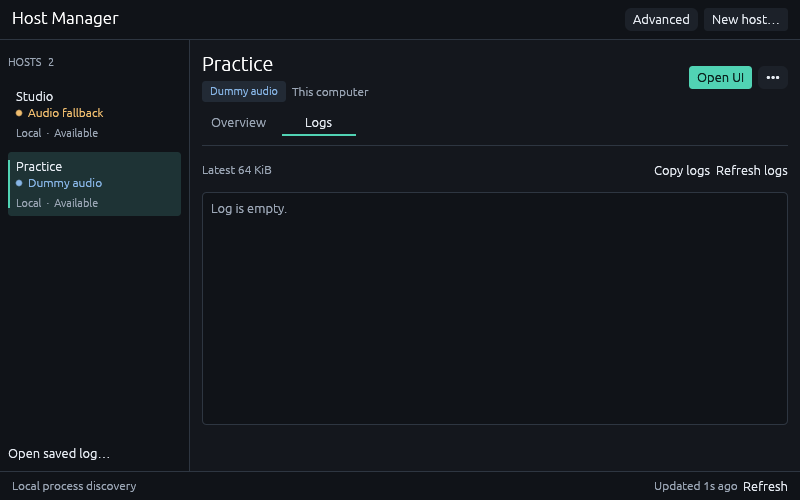
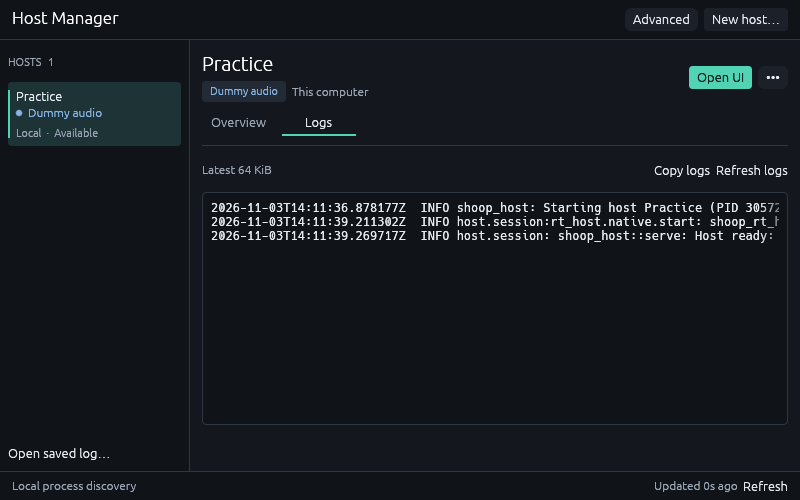
Pass UI host targets through bounded startup pipes

Changed region(s): [[0.0, 0.15, 0.9688, 0.48]]

diff --git a/src/rust/shoopdaloop/src/host_manager.rs b/src/rust/shoopdaloop/src/host_manager.rs
@@ -32,11 +32,9 @@ impl Source {
         }
     }
 }
-fn ui_command(target: &Target) -> Result<Command> {
+fn ui_command() -> Result<Command> {
     let mut command = Command::new(std::env::current_exe()?);
-    command
-        .arg("--ui-only")
-        .arg(format!("--host-address={}", target.management));
+    command.arg("--ui-only").arg("--host-stdin");
     Ok(command)
 }
 
@@ -775,9 +773,8 @@ impl Manager {
                             if matches!(host.source, Source::Process(_)) {
                                 target.use_local_addresses();
                             }
-                            let mut command = ui_command(&target)?;
-                            shoop_host::launch::independent(&mut command);
-                            shoop_host::launch::reap(command.spawn().context("Start looper UI")?);
+                            let mut command = ui_command()?;
+                            shoop_host::launch::launch_ui(&mut command, &target.management)?;
                             Ok("Looper UI launched".into())
                         });
                     }
@@ -1890,29 +1887,6 @@ mod tests {
     }
 
     #[shoop_wasm_test_support::shoop_test]
-    fn endpoint_values_cannot_change_the_spawned_ui_role() {
-        use clap::Parser;
-        for value in [
-            "--manage-hosts",
-            "--shutdown-host",
-            "--session=unexpected.shoop",
-        ] {
-            let mut target = target();
-            target.management = value.into();
-            let command = ui_command(&target).unwrap();
-            let argv = std::iter::once(command.get_program()).chain(command.get_args());
-            let parsed = AppArgs::try_parse_from(argv).unwrap();
-            assert!(
-                parsed.ui_only
-                    && !parsed.manage_hosts
-                    && !parsed.shutdown_host
-                    && parsed.session.is_none()
-            );
-            assert_eq!(parsed.host_address.as_deref(), Some(value));
-        }
-    }
-
-    #[shoop_wasm_test_support::shoop_test]
     fn intended_dummy_audio_and_physical_driver_fallback_are_distinct() {
         let mut host = host();
         assert_eq!(host.state().0, "Dummy audio");
@@ -1988,7 +1962,7 @@ mod tests {
         );
     }
     #[shoop_wasm_test_support::shoop_test]
-    fn explicit_profiles_are_advanced_inputs_and_ui_launch_uses_an_address() {
+    fn explicit_profiles_are_advanced_inputs_and_ui_launch_uses_a_pipe() {
         let root = tempfile::tempdir().unwrap();
         let path = root.path().join("advanced.json");
         target().profile().write(&path).unwrap();
@@ -1996,12 +1970,16 @@ mod tests {
         assert_eq!(manager.sources, ["127.0.0.1:15401"]);
         assert!(Manager::new(None).sources.is_empty());
         assert_eq!(std::fs::read_dir(root.path()).unwrap().count(), 1);
-        let command = ui_command(&target()).unwrap();
+        let command = ui_command().unwrap();
         let args: Vec<_> = command
             .get_args()
             .map(|arg| arg.to_string_lossy())
             .collect();
-        assert_eq!(args, ["--ui-only", "--host-address=127.0.0.1:15401"]);
+        let parsed = <AppArgs as clap::Parser>::try_parse_from(
+            std::iter::once("shoopdaloop".to_owned()).chain(args.iter().map(|arg| arg.to_string())),
+        )
+        .unwrap();
+        assert!(parsed.ui_only && parsed.host_stdin && parsed.host_address.is_none());
         use clap::Parser;
         assert!(AppArgs::try_parse_from([
             "shoopdaloop",

diff --git a/src/rust/shoopdaloop/src/host_manager/discovery.rs b/src/rust/shoopdaloop/src/host_manager/discovery.rs
@@ -526,6 +526,41 @@ mod tests {
             .any(|host| host.source == fixture.source()));
         assert_eq!(std::fs::read_dir(fixture._root.path()).unwrap().count(), 1);
     }
+    #[cfg(target_os = "linux")]
+    #[shoop_wasm_test_support::shoop_test]
+    fn discovers_a_compatible_host_after_its_executable_is_moved_or_removed() {
+        let fixture = Fixture::start(AppTransport::Socket, false);
+        let directory = fixture._root.path().join("moved bundle");
+        std::fs::create_dir(&directory).unwrap();
+        std::fs::rename(&fixture.identity.executable, directory.join("shoop_host")).unwrap();
+        let current = identity(fixture.child.id()).unwrap().unwrap();
+        assert_eq!(current.pid, fixture.identity.pid);
+        assert_eq!(current.started, fixture.identity.started);
+        let observed = scan(vec![], vec![]);
+        let host = observed
+            .hosts
+            .iter()
+            .find(|host| host.source == Source::Process(current.clone()))
+            .unwrap();
+        assert!(host.report.is_ok(), "{:?}", host.report);
+        assert_eq!(
+            host.target.as_ref().unwrap().instance,
+            fixture.target.as_ref().unwrap().instance
+        );
+        std::fs::remove_file(&current.executable).unwrap();
+        let observed = scan(vec![], observed.hosts);
+        let host = observed
+            .hosts
+            .iter()
+            .find(|host| {
+                host.target.as_ref().is_some_and(|target| {
+                    target.instance == fixture.target.as_ref().unwrap().instance
+                })
+            })
+            .unwrap();
+        assert!(host.report.is_ok());
+    }
+
     #[shoop_wasm_test_support::shoop_test]
     fn keeps_every_candidate_and_prefers_os_sources_over_manual_targets() {
         let mut hosts: Vec<_> = (0..90)

diff --git a/src/rust/shoopdaloop/src/app_args.rs b/src/rust/shoopdaloop/src/app_args.rs
@@ -66,6 +66,15 @@ pub struct AppArgs {
     #[arg(long, group = "host_target", conflicts_with = "host_only")]
     pub host_address: Option<String>,
     #[cfg(not(target_arch = "wasm32"))]
+    #[arg(
+        long,
+        hide = true,
+        group = "host_target",
+        requires = "ui_only",
+        conflicts_with = "host_only"
+    )]
+    pub host_stdin: bool,
+    #[cfg(not(target_arch = "wasm32"))]
     #[arg(long, requires = "host_target")]
     pub ui_only: bool,
     #[cfg(not(target_arch = "wasm32"))]
@@ -148,6 +157,13 @@ pub struct AppArgs {
 impl AppArgs {
     #[cfg(not(target_arch = "wasm32"))]
     pub fn host_target(&self) -> anyhow::Result<Option<shoop_host::remote::Target>> {
+        if self.host_stdin {
+            let address: String = shoop_host::launch::read_message(std::io::stdin().lock())?;
+            return Ok(Some(shoop_host::connection::describe(
+                &address,
+                std::time::Duration::from_secs(3),
+            )?));
+        }
         let address = match (&self.host_address, &self.remote_profile) {
             (Some(address), _) => address.clone(),
             (_, Some(path)) => {
@@ -281,6 +297,15 @@ mod native_tests {
             "127.0.0.1:12345",
             "--host-profile",
             "advanced.json"
+        ])
+        .is_err());
+        assert!(AppArgs::try_parse_from(["shoopdaloop", "--ui-only", "--host-stdin"]).is_ok());
+        assert!(AppArgs::try_parse_from(["shoopdaloop", "--host-stdin"]).is_err());
+        assert!(AppArgs::try_parse_from([
+            "shoopdaloop",
+            "--ui-only",
+            "--host-stdin",
+            "--host-address=127.0.0.1:12345"
         ])
         .is_err());
         for flag in [

diff --git a/src/rust/shoop_host/tests/recovery.rs b/src/rust/shoop_host/tests/recovery.rs
@@ -172,7 +172,10 @@ fn shutdown(host: &mut Host, client: &mut Client) {
 
 #[shoop_test]
 fn ui_peer() {
-    let entry = if let Ok(address) = std::env::var("SHOOP_TEST_ADDRESS") {
+    let entry = if std::env::var_os("SHOOP_TEST_STDIN").is_some() {
+        let address: String = shoop_host::launch::read_message(std::io::stdin().lock()).unwrap();
+        connection::describe(&address, Duration::from_secs(2)).unwrap()
+    } else if let Ok(address) = std::env::var("SHOOP_TEST_ADDRESS") {
         connection::describe(&address, Duration::from_secs(2)).unwrap()
     } else if let Some(path) = std::env::var_os("SHOOP_TEST_ENTRY") {
         HostEntry::read(Path::new(&path)).unwrap()
@@ -493,11 +496,11 @@ fn launcher_peer() {
         &config,
         options,
         Path::new(env!("CARGO_BIN_EXE_shoop_host")),
-        |target| {
+        |_target| {
             let mut command = Process::new(std::env::current_exe().unwrap());
             command
                 .args(["--exact", "ui_peer", "--nocapture"])
-                .env("SHOOP_TEST_ADDRESS", &target.management)
+                .env("SHOOP_TEST_STDIN", "1")
                 .env("SHOOP_TEST_READY", root.join("ui-ready"))
                 .env("SHOOP_TEST_EXIT", root.join("ui-exit"));
             command

diff --git a/src/rust/shoop_host/src/launch.rs b/src/rust/shoop_host/src/launch.rs
@@ -67,6 +67,24 @@ pub fn reap(mut child: Child) {
         let _ = child.wait();
     });
 }
+pub fn launch_ui(command: &mut Command, management: &str) -> Result<()> {
+    ensure!(
+        management.len() <= 320,
+        "Host endpoint exceeds its size limit"
+    );
+    let mut bytes = Vec::new();
+    write_message(&mut bytes, &management)?;
+    independent(command);
+    command.stdin(Stdio::piped());
+    let mut child = command.spawn().context("Start independent UI")?;
+    let result = child
+        .stdin
+        .take()
+        .context("UI startup pipe unavailable")
+        .and_then(|mut input| input.write_all(&bytes).context("Pass host endpoint to UI"));
+    reap(child);
+    result
+}
 pub fn spawn(
     config: &HostConfig,
     options: StartOptions,
@@ -140,14 +158,12 @@ pub fn pair(
     let (child, target) = spawn(config, options, host_executable)?;
     reap(child);
     let mut command = ui(&target);
-    independent(&mut command);
-    let child = command.spawn().with_context(|| {
+    launch_ui(&mut command, &target.management).with_context(|| {
         format!(
             "UI failed to start; ready host remains available at {}",
             target.management
         )
     })?;
-    reap(child);
     Ok(target)
 }
 

diff --git a/src/rust/shoop_host/src/serve.rs b/src/rust/shoop_host/src/serve.rs
@@ -125,6 +125,11 @@ impl Acceptor {
                                 if item.description.is_empty() {
                                     let mut target = target.clone();
                                     target.can_attach = available.load(Ordering::Acquire);
+                                    if let Ok(Some(process)) =
+                                        shoop_host_processes::identity(std::process::id())
+                                    {
+                                        target.process = Some(process);
+                                    }
                                     if crate::launch::write_message(&mut item.description, &target)
                                         .is_err()
                                     {

diff --git a/src/rust/shoopdaloop/src/main.rs b/src/rust/shoopdaloop/src/main.rs
@@ -3676,12 +3676,9 @@ fn independent_roles(args: &AppArgs) -> anyhow::Result<bool> {
     options.export_profile = args.export_profile.clone();
     options.log_file = args.log_file.clone();
     let original: Vec<_> = std::env::args_os().skip(1).collect();
-    shoop_host::launch::pair(&config, options, &companion, |target| {
+    shoop_host::launch::pair(&config, options, &companion, |_target| {
         let mut command = std::process::Command::new(&executable);
-        command
-            .args(&original)
-            .arg("--ui-only")
-            .arg(format!("--host-address={}", target.management));
+        command.args(&original).arg("--ui-only").arg("--host-stdin");
         command
     })?;
     Ok(true)

diff --git a/PLAN_HOST_MANAGER_SIMPLIFICATION.md b/PLAN_HOST_MANAGER_SIMPLIFICATION.md
@@ -356,9 +356,12 @@ Depends on Stages 0–4.
   build and all four-target dependency-boundary checks pass. New admission tests
   pass all 24 host tests; final full-suite verification includes the added cases.
 - Incoming CodeQL review flagged a user-controlled endpoint command argument.
-  Bound the address to a single `--host-address=value` argument; a parser regression
-  proves flag-looking endpoint values cannot select another application role.
-  Recheck CodeQL and resolve its thread after final analysis.
+  Binding it to a single `--host-address=value` argument prevented argument
+  injection, but did not clear CodeQL's tainted-command finding. Manager and sibling
+  launches now pass the endpoint through the bounded startup pipe and use fixed
+  `--ui-only --host-stdin` arguments. Real sibling tests and native GUI attachment
+  exercise this path; manual `--host-address` remains available under Advanced.
+  Recheck CodeQL and its thread after final analysis.
 - Target branch recheck found `64a4ad06` (click-track generation) on top of `3aabf437`.
   Merge and revalidate it before the final push. Remaining delivery work is the
   final native/web/coverage matrix, automated review and final evidence mapping.
@@ -368,3 +371,28 @@ Depends on Stages 0–4.
   2,569 workspace tests (4 skipped), with CI tracing and `umask 0022`.
   Screenshots and documentation are committed; PR metadata and final remote checks
   remain to be recorded.
+- Final process-lifetime regression: moving a running Linux host's executable
+  reproduced an OS/description identity mismatch. Inspection now reports the live
+  OS executable path. The regression proves discovery retains the same runtime
+  instance after moving and unlinking its executable, without any disk metadata.
+- Native UI handoff check: manager Open UI attached over the stdin pipe; closing
+  only the UI left the host available and its exited UI child was reaped. Graceful
+  Stop completed afterward. Isolated configuration/data/state/cache directories
+  remained empty. The log screenshot now shows an explicitly enabled real log.
+- Final handoff/path-fix candidate passes all 2,569 workspace tests (4 intentional
+  canary skips), the warning-denying workspace/no-default builds, formatting and
+  tracing/test-attribute policies. A separate `umask 0077` run passes all 38
+  launch/discovery/logging/role tests; the ordinary full run uses `umask 0022`.
+
+## Acceptance evidence map
+
+| Criterion | Implementation and verification |
+| --- | --- |
+| 1. Keyless connections | Versioned socket negotiation, app admission and engine bootstrap; real app/management/shared-memory/socket/LAN tests and packaged engine canaries. Removed credential flags are rejected. |
+| 2. Live OS discovery | `shoop_host_processes` native fixtures passed Linux/macOS/Windows; manager discovery tests use real candidate-owned sockets and arbitrary ports. Linux executable move/unlink regression retains the same instance. |
+| 3. Harmless inspection | Shared-attachment admission tests reject incompatible roles/versions; repeated probes and fresh managers run through recording/playback without acquiring control or consuming the first attachment. |
+| 4. File-free workflow | Configuration/readiness/UI endpoint pipes, actual native New host/Open UI/Stop, sibling-launch and failed-UI-spawn tests; isolated application-state directories remain empty. |
+| 5. Host lifetime | Real manager termination/reopening preserves PID/start/instance; recording and socket reattachment tests use fresh manager models. Child reapers wait without controlling ready-host lifetime. |
+| 6. Advanced profiles | Advanced menu screenshots and form/action tests; endpoint-only schema excludes runtime IDs; no automatic load/save. Manual aliases deduplicate with local discoveries. |
+| 7. Correct termination | Real child identity/termination fixtures, unresponsive-host tests, local Force stop dialog/action and native GUI verification. Changed identities and manual remote PIDs refuse OS termination; graceful Stop retains live-controller protection. |
+| 8. Complete delivery | Eight native screenshots, current app/host/network/architecture docs and PR #916 metadata. Final CI and automated-review results are recorded in the completion entry below once verified. |

diff --git a/docs/native_session_recovery/ownership-and-contract.md b/docs/native_session_recovery/ownership-and-contract.md
@@ -121,7 +121,9 @@ UI, devices or Lua runtime. Native endpoint discovery and optional profile handl
 Host-only accepts optional listen endpoints and device/pool configuration. UI-only
 accepts a live host address or an advanced connection profile. Combined launch
 exchanges bounded configuration/readiness messages over pipes and then leaves
-independent host/UI siblings. Rollback applies only to the launcher's own unready
+independent host/UI siblings. Manager and sibling UI launches pass the endpoint
+through a bounded stdin message, using fixed role flags on the UI command line.
+Rollback applies only to the launcher's own unready
 host. No original pipe or child handle is required by later status/shutdown.
 
 The manager discovers standalone hosts through live OS process and owned-socket

diff --git a/src/rust/shoopdaloop/README.md b/src/rust/shoopdaloop/README.md
@@ -48,7 +48,8 @@ target/debug/shoopdaloop --host-only
 options. Advanced connection profiles can be exported with `--export-profile PATH`
 and imported with `--host-profile PATH` (`--remote-profile` is an alias). Profiles
 select endpoints, never process or session identities, and are never saved or loaded
-automatically. The launcher exchanges bounded startup/readiness messages over pipes;
+automatically. The launcher exchanges bounded startup/readiness messages over pipes.
+Manager and sibling UI launches pass the live endpoint through a bounded stdin pipe;
 normal creation and attachment require no configuration or profile files.
 
 Compatible clients connect without keys, certificates or trust records. Protocol
